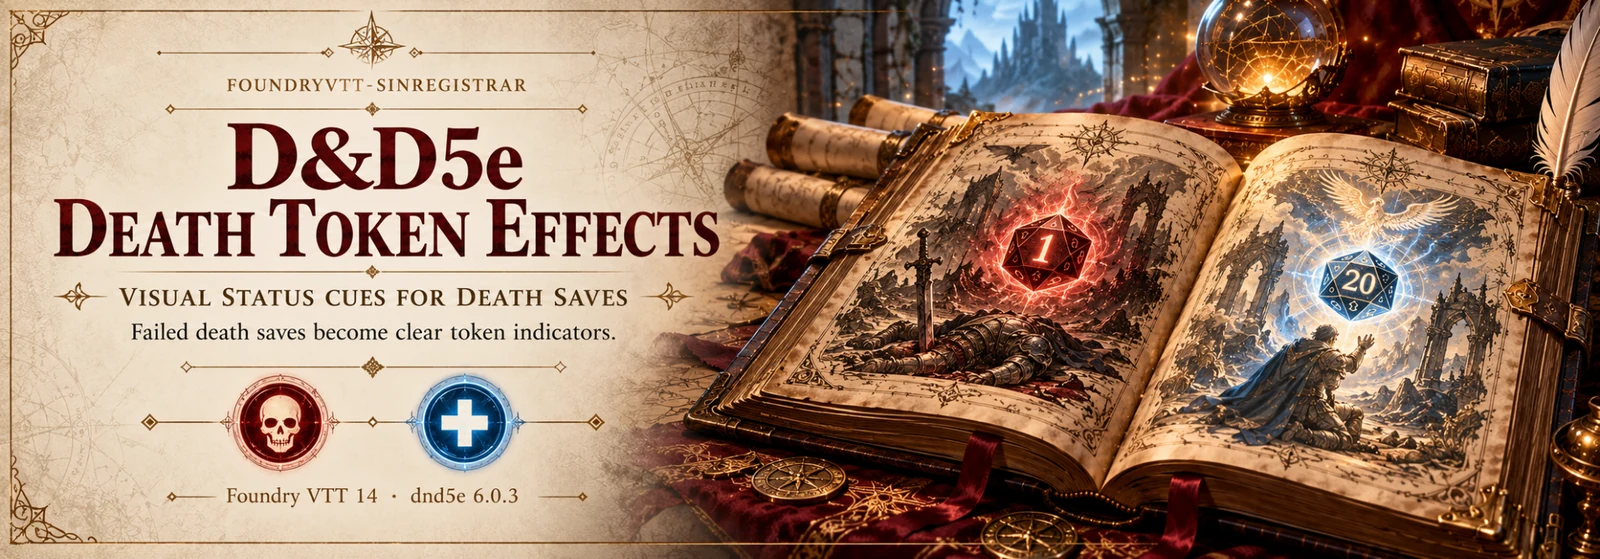
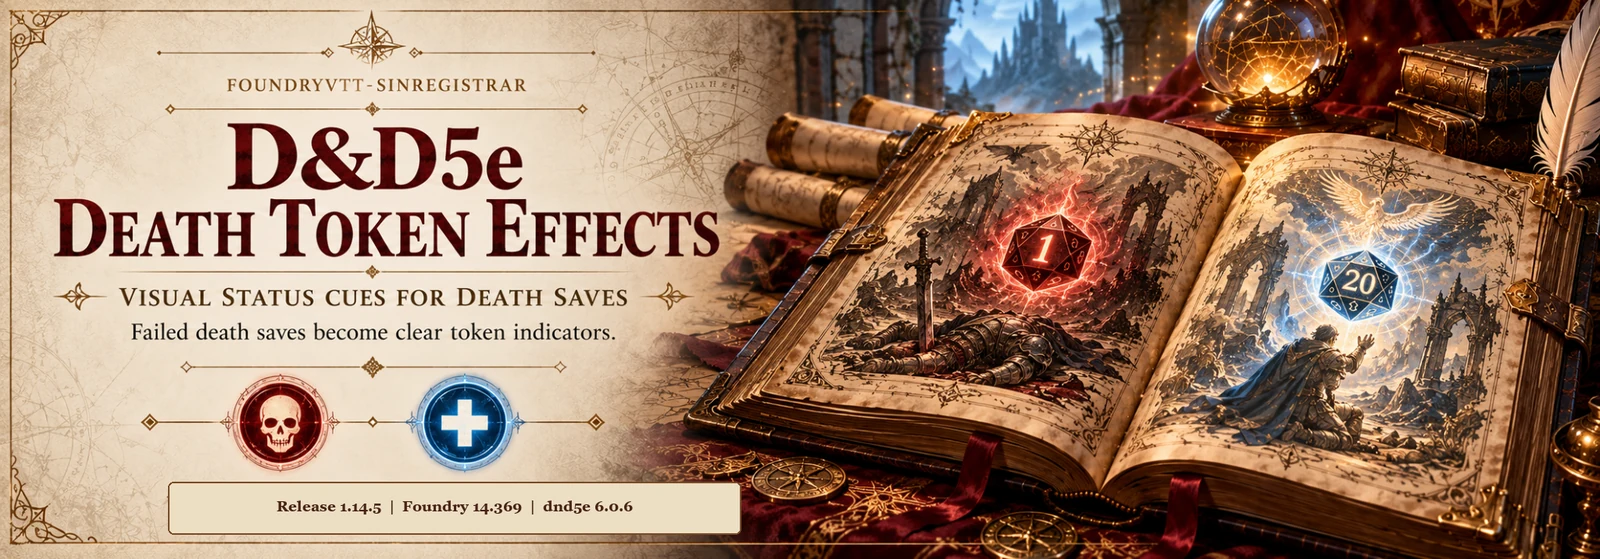
docs: automate release presentation assets

Changed region(s): [[0.0938, 0.8515, 0.4688, 0.9732]]

diff --git a/docs/foundry/description-foundry.html b/docs/foundry/description-foundry.html
@@ -1,0 +1,94 @@
+<!-- Paste this complete file into Foundry's Description source mode (<>). -->
+<div class="dnd5e-death-token-description">
+  <p style="text-align:center">
+    <img style="width:100%;max-width:1600px;height:auto" src="https://github.com/foundryvtt-sinregistrar/dnd5e-death-token-effects/releases/latest/download/banner-death-token-effects.webp" alt="D&amp;D5e Death Token Effects — visual death-save effects" />
+  </p>
+  <p style="text-align:center">
+    <a href="https://github.com/foundryvtt-sinregistrar/dnd5e-death-token-effects/releases/latest" target="_blank" rel="nofollow noopener"><img src="https://img.shields.io/github/v/release/foundryvtt-sinregistrar/dnd5e-death-token-effects?label=release" alt="Latest release" /></a>
+    <img src="https://img.shields.io/badge/Foundry-14.367%2B-2f855a" alt="Foundry 14.367+" />
+    <img src="https://img.shields.io/badge/Verified-14.369-2563eb" alt="Foundry verified 14.369" />
+    <img src="https://img.shields.io/badge/dnd5e-6.0.3%2B-654b75" alt="D&amp;D5e 6.0.3+" />
+    <img src="https://img.shields.io/badge/Verified-6.0.6-2563eb" alt="D&amp;D5e verified 6.0.6" />
+    <img src="https://img.shields.io/badge/languages-English%20%7C%20Espa%C3%B1ol-687b8f" alt="English and Spanish" />
+  </p>
+  <p style="text-align:center">
+    <a href="https://github.com/foundryvtt-sinregistrar/dnd5e-death-token-effects" target="_blank" rel="nofollow noopener">GitHub</a> &middot;
+    <a href="https://github.com/foundryvtt-sinregistrar/dnd5e-death-token-effects/releases/latest" target="_blank" rel="nofollow noopener">Releases</a> &middot;
+    <a href="https://github.com/foundryvtt-sinregistrar/dnd5e-death-token-effects/issues" target="_blank" rel="nofollow noopener">Issues / Incidencias</a> &middot;
+    <a href="https://github.com/foundryvtt-sinregistrar/dnd5e-death-token-effects/releases/latest/download/module.json" target="_blank" rel="nofollow noopener">Manifest URL</a>
+  </p>
+  <hr />
+
+  <h2>English</h2>
+  <p><strong>See death-saving throw failures on the battlefield.</strong> D&amp;D5e Death Token Effects displays a configurable death icon and red token border when a character reaches 0 HP. The icon opacity increases as failed death saving throws accumulate.</p>
+  <h3>Key features</h3>
+  <ul>
+    <li>Progressive overlay opacity for 1, 2, and 3+ failed death saving throws.</li>
+    <li>Optional faint indicator at 0 HP with no failures.</li>
+    <li>Customizable icon image, tint, opacity, and size; the original token image is never replaced.</li>
+    <li>Lower-right visual overlay and configurable red token border.</li>
+    <li>Optional automatic <strong>Dead</strong> status at 3+ failures, with optional removal of <strong>Bloodied</strong>.</li>
+    <li>Optional removal of <strong>Dead</strong> when the actor is healed above 0 HP; disabled by default.</li>
+    <li>Non-interactive graphics and automatic updates when actor data changes.</li>
+  </ul>
+  <h3>How it works</h3>
+  <p><strong>HP &gt; 0:</strong> no death overlay. <strong>0 HP, 0 failures:</strong> hidden by default. <strong>1 failure:</strong> low opacity (25% by default). <strong>2 failures:</strong> medium opacity (50%). <strong>3+ failures:</strong> high opacity (80%) and optional Dead status handling.</p>
+  <p><small>The red and blue d20s in the banner are symbolic. The module visualizes <strong>failed</strong> death saves; it does not roll or modify saving throws.</small></p>
+  <h3>Requirements and installation</h3>
+  <p>Foundry VTT <strong>14.367+</strong> (verified 14.369) &middot; D&amp;D 5e <strong>6.0.3+</strong> (verified 6.0.6).</p>
+  <ol>
+    <li>Open <strong>Add-on Modules &rarr; Install Module</strong> in Foundry.</li>
+    <li>Find the module, or paste its <a href="https://github.com/foundryvtt-sinregistrar/dnd5e-death-token-effects/releases/latest/download/module.json" target="_blank" rel="nofollow noopener">manifest URL</a>.</li>
+    <li>Enable the module in your D&amp;D5e world.</li>
+    <li>Adjust <strong>Configure Settings &rarr; Module Settings &rarr; D&amp;D5e Death Token Effects</strong>.</li>
+  </ol>
+  <hr />
+
+  <h2>Espa&ntilde;ol</h2>
+  <p><strong>Visualiza los fallos de las salvaciones contra muerte en el tablero.</strong> D&amp;D5e Death Token Effects muestra un icono de muerte configurable y un borde rojo alrededor del token cuando un personaje llega a 0 puntos de golpe. La opacidad del icono aumenta seg&uacute;n los fallos acumulados.</p>
+  <h3>Caracter&iacute;sticas</h3>
+  <ul>
+    <li>Opacidad progresiva del icono con 1, 2 y 3 o m&aacute;s fallos de salvaci&oacute;n de muerte.</li>
+    <li>Indicador tenue opcional con 0 PG y ning&uacute;n fallo.</li>
+    <li>Personalizaci&oacute;n de imagen, color, opacidad y tama&ntilde;o sin sustituir la imagen original del token.</li>
+    <li>Icono en la esquina inferior derecha y borde rojo configurable.</li>
+    <li>Estado <strong>Muerto</strong> opcional con 3+ fallos y eliminaci&oacute;n opcional de <strong>Ensangrentado</strong>.</li>
+    <li>Eliminaci&oacute;n opcional de <strong>Muerto</strong> al curarse por encima de 0 PG; desactivada por defecto.</li>
+    <li>Gr&aacute;ficos no interactivos y actualizaci&oacute;n autom&aacute;tica al cambiar los datos del actor.</li>
+  </ul>
+  <h3>Funcionamiento</h3>
+  <p><strong>PG &gt; 0:</strong> sin icono. <strong>0 PG, 0 fallos:</strong> oculto por defecto. <strong>1 fallo:</strong> opacidad baja (25% por defecto). <strong>2 fallos:</strong> opacidad media (50%). <strong>3 o m&aacute;s fallos:</strong> opacidad alta (80%) y gesti&oacute;n opcional del estado Muerto.</p>
+  <p><small>Los d20 rojo y azul del banner son ilustrativos. El m&oacute;dulo representa los <strong>fallos</strong> de salvaci&oacute;n de muerte; no efect&uacute;a ni modifica tiradas.</small></p>
+  <h3>Requisitos e instalaci&oacute;n</h3>
+  <p>Foundry VTT <strong>14.367+</strong> (verificada 14.369) &middot; D&amp;D 5e <strong>6.0.3+</strong> (verificada 6.0.6).</p>
+  <ol>
+    <li>En Foundry, abre <strong>Add-on Modules &rarr; Install Module</strong>.</li>
+    <li>Busca el m&oacute;dulo o pega su <a href="https://github.com/foundryvtt-sinregistrar/dnd5e-death-token-effects/releases/latest/download/module.json" target="_blank" rel="nofollow noopener">URL del manifiesto</a>.</li>
+    <li>Act&iacute;valo en tu mundo D&amp;D5e.</li>
+    <li>Config&uacute;ralo en <strong>Configure Settings &rarr; Module Settings &rarr; D&amp;D5e Death Token Effects</strong>.</li>
+  </ol>
+  <hr />
+
+  <h2>Screenshots / Capturas de pantalla</h2>
+  <p>Click to enlarge / Pulsa para ampliar.</p>
+  <table style="width:100%"><tbody>
+    <tr>
+      <td style="width:50%;text-align:center"><a href="https://raw.githubusercontent.com/foundryvtt-sinregistrar/dnd5e-death-token-effects/main/docs/images/status-demo/01-full-hp.png" target="_blank" rel="nofollow noopener"><img style="width:100%;max-width:380px" src="https://raw.githubusercontent.com/foundryvtt-sinregistrar/dnd5e-death-token-effects/main/docs/images/status-demo/01-full-hp.png" alt="Full HP / Vida completa" /></a><p><strong>Full HP</strong> / Vida completa</p></td>
+      <td style="width:50%;text-align:center"><a href="https://raw.githubusercontent.com/foundryvtt-sinregistrar/dnd5e-death-token-effects/main/docs/images/status-demo/02-half-hp.png" target="_blank" rel="nofollow noopener"><img style="width:100%;max-width:380px" src="https://raw.githubusercontent.com/foundryvtt-sinregistrar/dnd5e-death-token-effects/main/docs/images/status-demo/02-half-hp.png" alt="Half HP / Mitad de vida" /></a><p><strong>Half HP</strong> / Mitad de vida</p></td>
+    </tr>
+    <tr>
+      <td style="width:50%;text-align:center"><a href="https://raw.githubusercontent.com/foundryvtt-sinregistrar/dnd5e-death-token-effects/main/docs/images/status-demo/03-one-hp.png" target="_blank" rel="nofollow noopener"><img style="width:100%;max-width:380px" src="https://raw.githubusercontent.com/foundryvtt-sinregistrar/dnd5e-death-token-effects/main/docs/images/status-demo/03-one-hp.png" alt="1 HP / 1 PG" /></a><p><strong>1 HP</strong> / 1 PG</p></td>
+      <td style="width:50%;text-align:center"><a href="https://raw.githubusercontent.com/foundryvtt-sinregistrar/dnd5e-death-token-effects/main/docs/images/status-demo/04-zero-hp-dying.png" target="_blank" rel="nofollow noopener"><img style="width:100%;max-width:380px" src="https://raw.githubusercontent.com/foundryvtt-sinregistrar/dnd5e-death-token-effects/main/docs/images/status-demo/04-zero-hp-dying.png" alt="0 HP / 0 PG" /></a><p><strong>0 HP</strong> / 0 PG</p></td>
+    </tr>
+    <tr>
+      <td style="width:50%;text-align:center"><a href="https://raw.githubusercontent.com/foundryvtt-sinregistrar/dnd5e-death-token-effects/main/docs/images/status-demo/05-death-save-failure-1.png" target="_blank" rel="nofollow noopener"><img style="width:100%;max-width:380px" src="https://raw.githubusercontent.com/foundryvtt-sinregistrar/dnd5e-death-token-effects/main/docs/images/status-demo/05-death-save-failure-1.png" alt="1 failed save / 1 fallo" /></a><p><strong>1 failed save</strong> / 1 fallo</p></td>
+      <td style="width:50%;text-align:center"><a href="https://raw.githubusercontent.com/foundryvtt-sinregistrar/dnd5e-death-token-effects/main/docs/images/status-demo/06-death-save-failure-2.png" target="_blank" rel="nofollow noopener"><img style="width:100%;max-width:380px" src="https://raw.githubusercontent.com/foundryvtt-sinregistrar/dnd5e-death-token-effects/main/docs/images/status-demo/06-death-save-failure-2.png" alt="2 failed saves / 2 fallos" /></a><p><strong>2 failed saves</strong> / 2 fallos</p></td>
+    </tr>
+    <tr>
+      <td style="width:50%;text-align:center"><a href="https://raw.githubusercontent.com/foundryvtt-sinregistrar/dnd5e-death-token-effects/main/docs/images/status-demo/07-death-save-failure-3-dead.png" target="_blank" rel="nofollow noopener"><img style="width:100%;max-width:380px" src="https://raw.githubusercontent.com/foundryvtt-sinregistrar/dnd5e-death-token-effects/main/docs/images/status-demo/07-death-save-failure-3-dead.png" alt="Dead / Muerto" /></a><p><strong>3 failed saves &middot; Dead</strong> / 3 fallos &middot; Muerto</p></td>
+      <td style="width:50%">&nbsp;</td>
+    </tr>
+  </tbody></table>
+  <h2>Support / Soporte</h2>
+  <p><a href="https://github.com/foundryvtt-sinregistrar/dnd5e-death-token-effects" target="_blank" rel="nofollow noopener">GitHub / Repositorio</a> &middot; <a href="https://github.com/foundryvtt-sinregistrar/dnd5e-death-token-effects/issues" target="_blank" rel="nofollow noopener">Issues / Incidencias</a> &middot; <a href="https://github.com/foundryvtt-sinregistrar/dnd5e-death-token-effects/releases" target="_blank" rel="nofollow noopener">Releases / Versiones</a> &middot; <a href="https://github.com/foundryvtt-sinregistrar/dnd5e-death-token-effects/blob/main/LICENSE" target="_blank" rel="nofollow noopener">MIT License / Licencia MIT</a></p>
+</div>

diff --git a/dev-tools/buildScripts/generate_foundry_banner.py b/dev-tools/buildScripts/generate_foundry_banner.py
@@ -1,0 +1,101 @@
+#!/usr/bin/env python3
+"""Create immutable and latest-release Foundry presentation banners.
+
+The source image is deliberately kept outside the distributed module archive.  Each
+release gets a versioned banner, while the unversioned file is a stable URL that can
+be embedded once in the Foundry package description.
+"""
+
+from __future__ import annotations
+
+import argparse
+import json
+import shutil
+from pathlib import Path
+
+from PIL import Image, ImageDraw, ImageFont
+
+
+ROOT = Path(__file__).resolve().parents[2]
+BASE = ROOT / "dev-tools" / "presentation" / "banner-base.png"
+LATEST_NAME = "banner-death-token-effects.webp"
+
+
+def font(size: int) -> ImageFont.FreeTypeFont:
+    """Use fonts available on GitHub Actions and common Windows installations."""
+    candidates = (
+        "/usr/share/fonts/truetype/dejavu/DejaVuSerif-Bold.ttf",
+        "C:/Windows/Fonts/georgiab.ttf",
+    )
+    for candidate in candidates:
+        if Path(candidate).is_file():
+            return ImageFont.truetype(candidate, size=size)
+    raise FileNotFoundError("No compatible banner font found. Install DejaVu Serif or Georgia.")
+
+
+def load_manifest(path: Path) -> dict:
+    data = json.loads(path.read_text(encoding="utf-8"))
+    required = ("id", "version", "compatibility", "relationships")
+    if any(key not in data for key in required):
+        raise ValueError("module.json is missing required release metadata.")
+    return data
+
+
+def dnd5e_compatibility(manifest: dict) -> tuple[str, str]:
+    systems = manifest["relationships"].get("systems", [])
+    dnd5e = next((entry for entry in systems if entry.get("id") == "dnd5e"), None)
+    if not dnd5e:
+        raise ValueError("module.json must declare a dnd5e system relationship.")
+    compatibility = dnd5e.get("compatibility", {})
+    return str(compatibility.get("minimum", "14")), str(compatibility.get("verified", ""))
+
+
+def render(manifest: dict, output: Path) -> None:
+    if not BASE.is_file():
+        raise FileNotFoundError(f"Banner base image not found: {BASE}")
+
+    foundry = manifest["compatibility"]
+    dnd5e_min, dnd5e_verified = dnd5e_compatibility(manifest)
+    foundry_verified = str(foundry.get("verified", ""))
+    version = str(manifest["version"])
+    label = f"Release {version}  |  Foundry {foundry_verified}  |  dnd5e {dnd5e_verified or dnd5e_min}"
+
+    image = Image.open(BASE).convert("RGB")
+    draw = ImageDraw.Draw(image)
+    width, height = image.size
+    # This panel intentionally covers the compatibility line baked into the legacy
+    # artwork, while preserving every other part of the approved original banner.
+    panel = (int(width * 0.105), int(height * 0.862), int(width * 0.463), int(height * 0.956))
+    draw.rounded_rectangle(panel, radius=max(5, height // 90), fill=(236, 222, 194), outline=(119, 75, 39), width=max(2, width // 800))
+
+    label_font = font(max(16, round(height * 0.026)))
+    box = draw.textbbox((0, 0), label, font=label_font)
+    text_width = box[2] - box[0]
+    text_height = box[3] - box[1]
+    center_x = (panel[0] + panel[2]) / 2
+    center_y = (panel[1] + panel[3]) / 2
+    draw.text((center_x - text_width / 2, center_y - text_height / 2 - box[1]), label, font=label_font, fill=(70, 35, 24))
+
+    output.parent.mkdir(parents=True, exist_ok=True)
+    image.resize((1600, round(height * 1600 / width)), Image.Resampling.LANCZOS).save(output, "WEBP", quality=88, method=6)
+
+
+def main() -> int:
+    parser = argparse.ArgumentParser(description=__doc__)
+    parser.add_argument("--manifest", type=Path, default=ROOT / "module.json")
+    parser.add_argument("--output-dir", type=Path, default=ROOT / "dist")
+    args = parser.parse_args()
+
+    manifest = load_manifest(args.manifest)
+    module_id = str(manifest["id"])
+    version = str(manifest["version"])
+    versioned = args.output_dir / f"{module_id}-{version}-banner.webp"
+    latest = args.output_dir / LATEST_NAME
+    render(manifest, versioned)
+    shutil.copyfile(versioned, latest)
+    print(f"OK: {versioned}\nOK: {latest}")
+    return 0
+
+
+if __name__ == "__main__":
+    raise SystemExit(main())

diff --git a/docs/foundry/README.md b/docs/foundry/README.md
@@ -1,0 +1,28 @@
+# Foundry package banner
+
+The release workflow creates two banner assets from `module.json` and the approved
+base artwork in `dev-tools/presentation/banner-base.png`:
+
+- `dnd5e-death-token-effects-<version>-banner.webp` is immutable and remains in
+  that GitHub release.
+- `banner-death-token-effects.webp` is uploaded to every release and is the stable
+  **latest** asset.
+
+Use this URL once in the package Description HTML; it will serve the latest release
+banner without another description edit:
+
+```html
+<img style="width: 100%; max-width: 1600px;" src="https://github.com/foundryvtt-sinregistrar/dnd5e-death-token-effects/releases/latest/download/banner-death-token-effects.webp" alt="D&amp;D5e Death Token Effects — visual death-save effects" />
+```
+
+The banner renderer reads the module version plus the verified Foundry and D&D5e
+versions from `module.json`. It overlays that release data only in the lower-left
+metadata panel; the rest of the approved artwork is unchanged. Run it locally with:
+
+```bash
+python -m pip install Pillow
+python -B dev-tools/buildScripts/generate_foundry_banner.py --output-dir dist
+```
+
+Do not commit `dist/` outputs. GitHub Releases preserve the versioned assets and
+therefore the complete banner history.

diff --git a/APPLY.md b/APPLY.md
@@ -4,9 +4,15 @@ Este archivo no forma parte del modulo distribuible. La publicacion se realiza d
 commit limpio y una etiqueta que coincida con `module.json`:
 
 ```bash
+python -m pip install Pillow
+python -B dev-tools/buildScripts/generate_foundry_banner.py --output-dir dist
 python dev-tools/buildScripts/build_release.py
 git tag v<version>
 git push origin main --follow-tags
 ```
+
+El workflow de la etiqueta vuelve a generar el banner y adjunta tanto el archivo
+versionado como el alias de la release mÃ¡s reciente. Consulta `docs/foundry/README.md`
+para la URL estable que debe usarse en la descripciÃ³n del paquete.
 
 GitHub Actions valida el commit etiquetado, crea los ZIP y abre una release draft.
